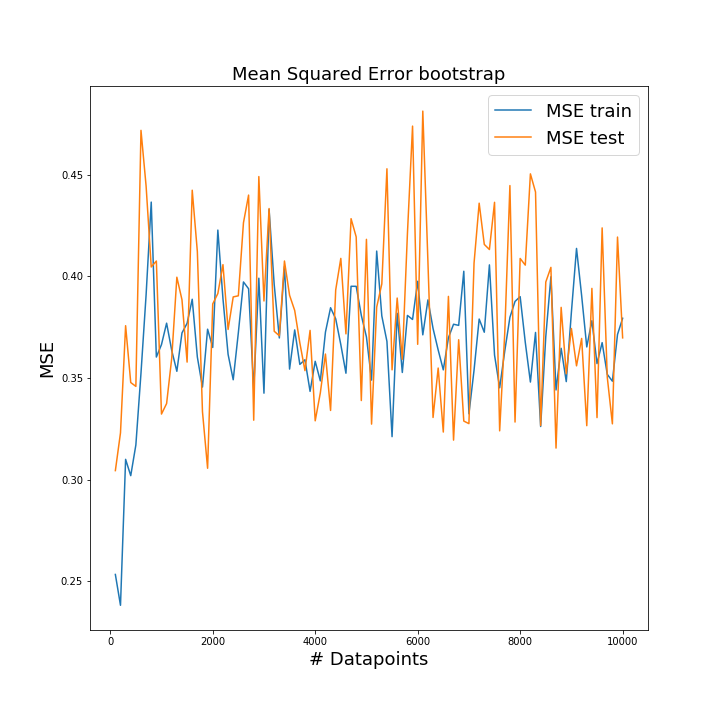
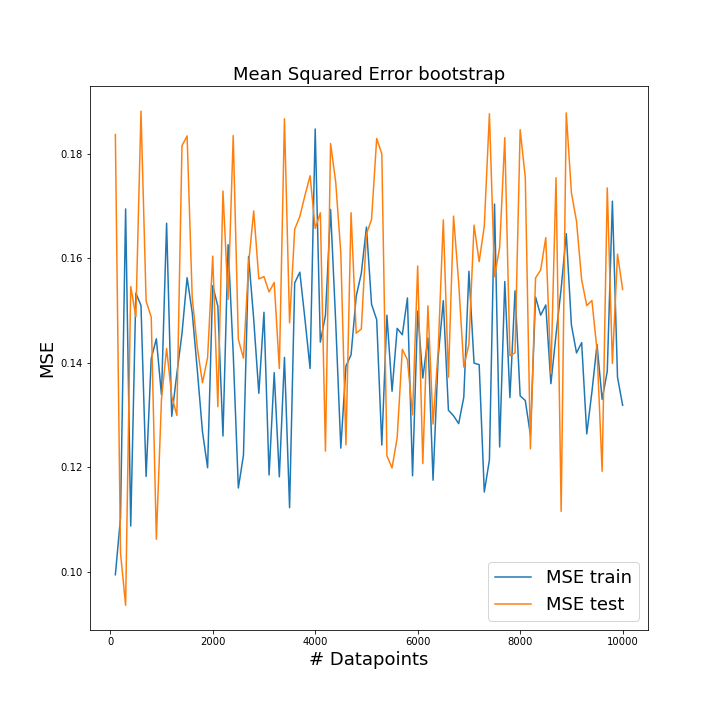
merge

diff --git a/Project1/ex1.py b/Project1/ex1.py
@@ -186,7 +186,7 @@ def ci(beta, var, n, z=1.96):
         ci_final.append([ci1[i],ci2[i]])
     return ci_final
 
-N = 10000
+N = 500
 x = np.random.uniform(0, 1, N)
 y = np.random.uniform(0, 1, N)
 # Make data.
@@ -202,15 +202,26 @@ X = create_X(x,y,complex)
 test_train_l = train_test_split(X,z,test_size=0.2)
 #Exercise 1
 print(f"OLS: {evaluate_method(ols, test_train_l, scale = False, d = 5)}")
+print(f"OLS: {evaluate_method(ols, test_train_l, scale = True, d = 5)}")
 
 noise = np.random.normal(0, 1, size=(z.shape))
 z_noisy = FrankeFunction(x, y) + noise*0.1
 test_train_l_noise = train_test_split(X,z_noisy,test_size=0.2)
 print(f"OLS with noise: {evaluate_method(ols, test_train_l_noise, scale = False, d = 5)}")
+print(f"OLS with noise: {evaluate_method(ols, test_train_l_noise, scale = True, d = 5)}")
 variance_beta = var_beta(test_train_l_noise[0])
 beta_l = ols(test_train_l_noise[0], test_train_l_noise[2])
 confidence_interval = ci(beta_l, variance_beta, N)
 print(confidence_interval)
+
+beta_sd_l = variance_beta*(1.96/np.sqrt(N))
+print(beta_l)
+print(beta_sd_l)
+print(np.log(beta_l))
+plt.errorbar(range(len(beta_l)), np.log(abs(beta_l)), np.log(beta_sd_l), linestyle='None', marker = 'o', ecolor = 'red')
+plt.title(r"The logarithmic absolute values to {\beta} and the logarithmic standard deviation")
+plt.grid()
+plt.show()
 
 
 
@@ -237,9 +248,9 @@ mean_mse_train = np.mean(mse_train, axis = 1) #calculating mean of MSE of all bo
 mean_mse_test = np.mean(mse_test, axis = 1)
 mean_r2_train = np.mean(r2_train, axis = 1)
 mean_r2_test = np.mean(r2_test, axis = 1)
-"""
-#plot_mse(mean_mse_train, mean_mse_test, method_header = "bootstrap")
-"""
+
+plot_mse(mean_mse_train, mean_mse_test, method_header = "bootstrap")
+
 
 #Bootstrap and plot MSE vs # datapoints
 n_points = np.arange(100,10001,100)
@@ -331,9 +342,13 @@ from matplotlib import cm
 # Load the terrain
 terrain1 = imread('SRTM_data_Norway_1.tif')
 x, y = np.meshgrid(range(terrain1.shape[1]), range(terrain1.shape[0]))
-X = create_X(x.flatten(),y.flatten(), 5)
-train_test_terrain = train_test_split(X, terrain1.flatten(), test_size = 0.2)
-print(f"OLS terrain: {evaluate_method(ols, train_test_terrain, scale = True, d = 5)}")
+X = create_X(x.flatten(), y.flatten(), 15)
+train_test_terrain = train_test_split(X, terrain1.flatten(), test_size = 0.4)
+print(train_test_terrain[0].shape)
+print(train_test_terrain[1].shape)
+print(train_test_terrain[2].shape)
+print(train_test_terrain[3].shape)
+print(f"OLS terrain: {evaluate_method(ols, train_test_terrain, scale = False, d = 15)}")
 
 
 print(x.shape)
@@ -344,6 +359,32 @@ print(terrain1.shape)
 plt.figure()
 plt.title('Terrain over Norway 1')
 plt.imshow(terrain1, cmap='gray')
+plt.xlabel('X')
+plt.ylabel('Y')
+plt.show()
+
+
+
+scaler = StandardScaler()
+#scaler = MaxAbsScaler()
+scaler.fit(train_test_terrain[0])
+train_test_terrain[0] = scaler.transform(train_test_terrain[0])
+train_test_terrain[1] = scaler.transform(train_test_terrain[1])
+scaler2 = StandardScaler()
+#scaler2 = MaxAbsScaler()
+scaler2.fit(train_test_terrain[2].reshape(-1,1))
+train_test_terrain[2] = scaler2.transform(train_test_terrain[2].reshape(-1,1))
+train_test_terrain[3] = scaler2.transform(train_test_terrain[3].reshape(-1,1))
+
+
+beta_terrain = ols(train_test_terrain[0], train_test_terrain[2])
+z_terrain = predict(X, beta_terrain).reshape(3601,1801)
+print(z_terrain[1000][500:550])
+print(terrain1[1000][500:550])
+# Show the terrain
+plt.figure()
+plt.title('Terrain over Norway 1')
+plt.imshow(z_terrain, cmap='gray')
 plt.xlabel('X')
 plt.ylabel('Y')
 plt.show()
